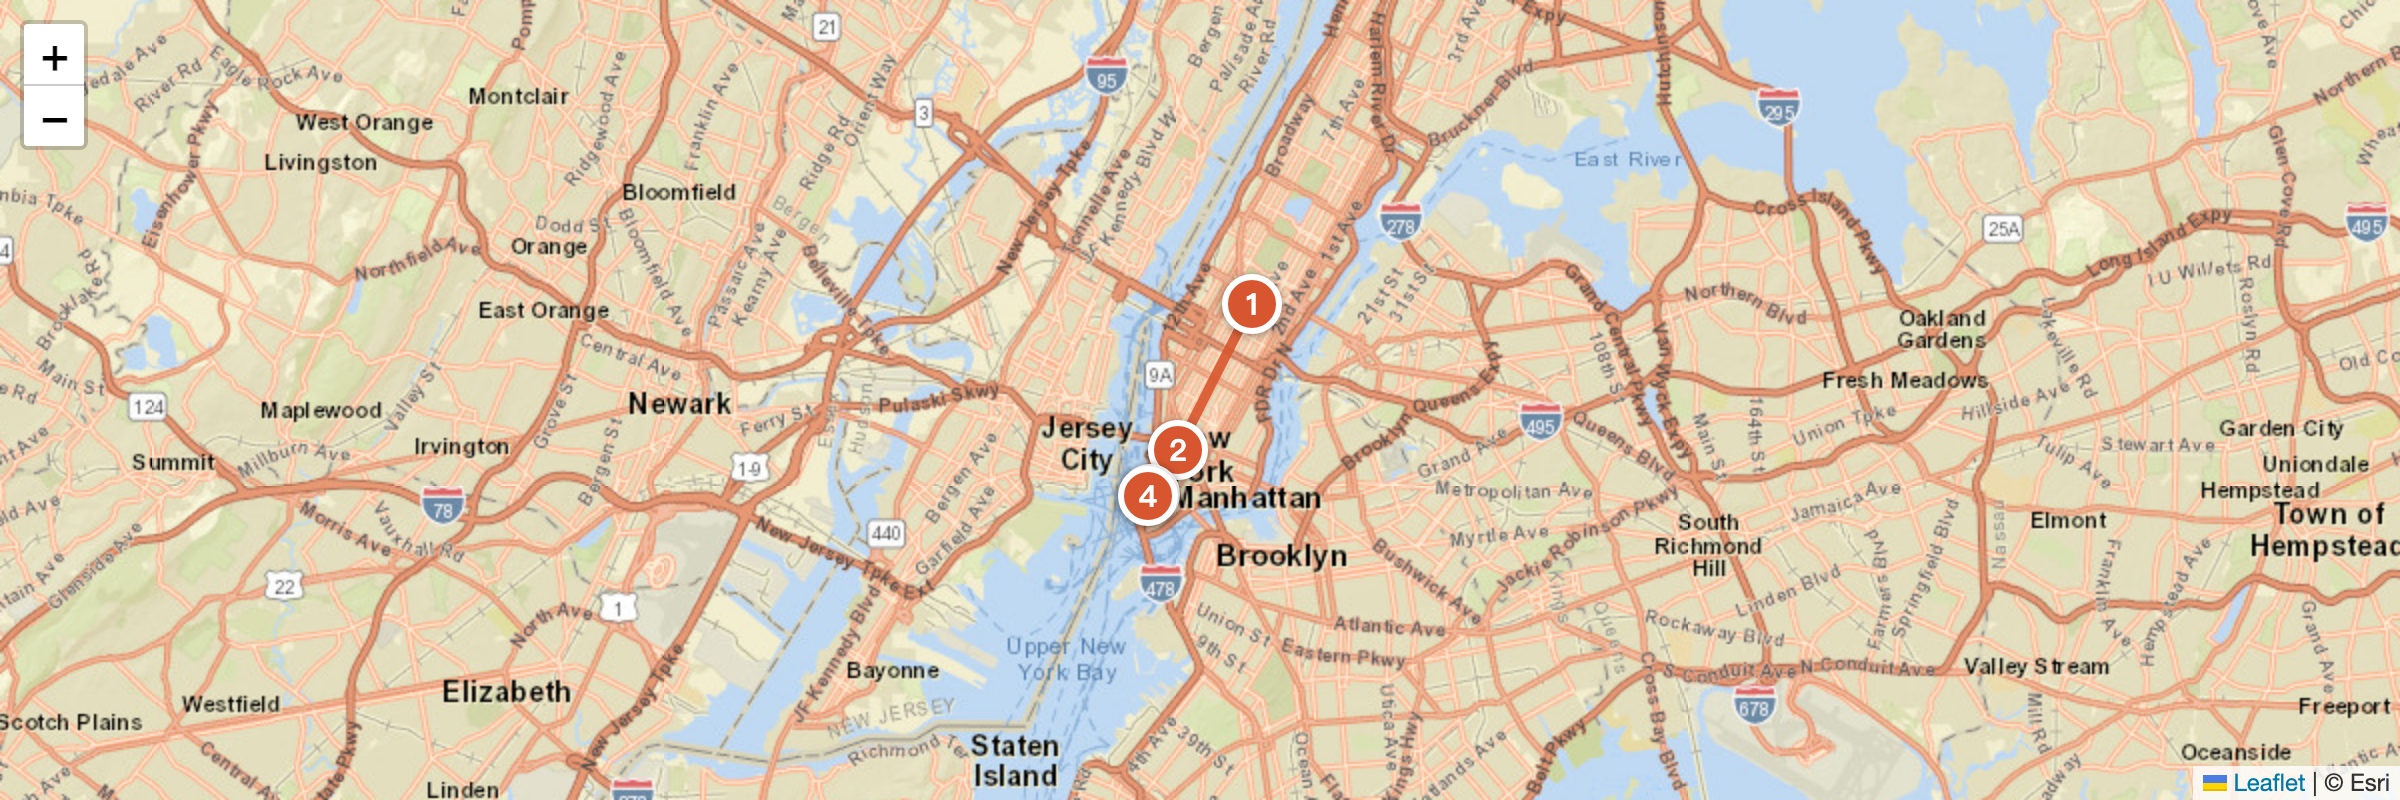
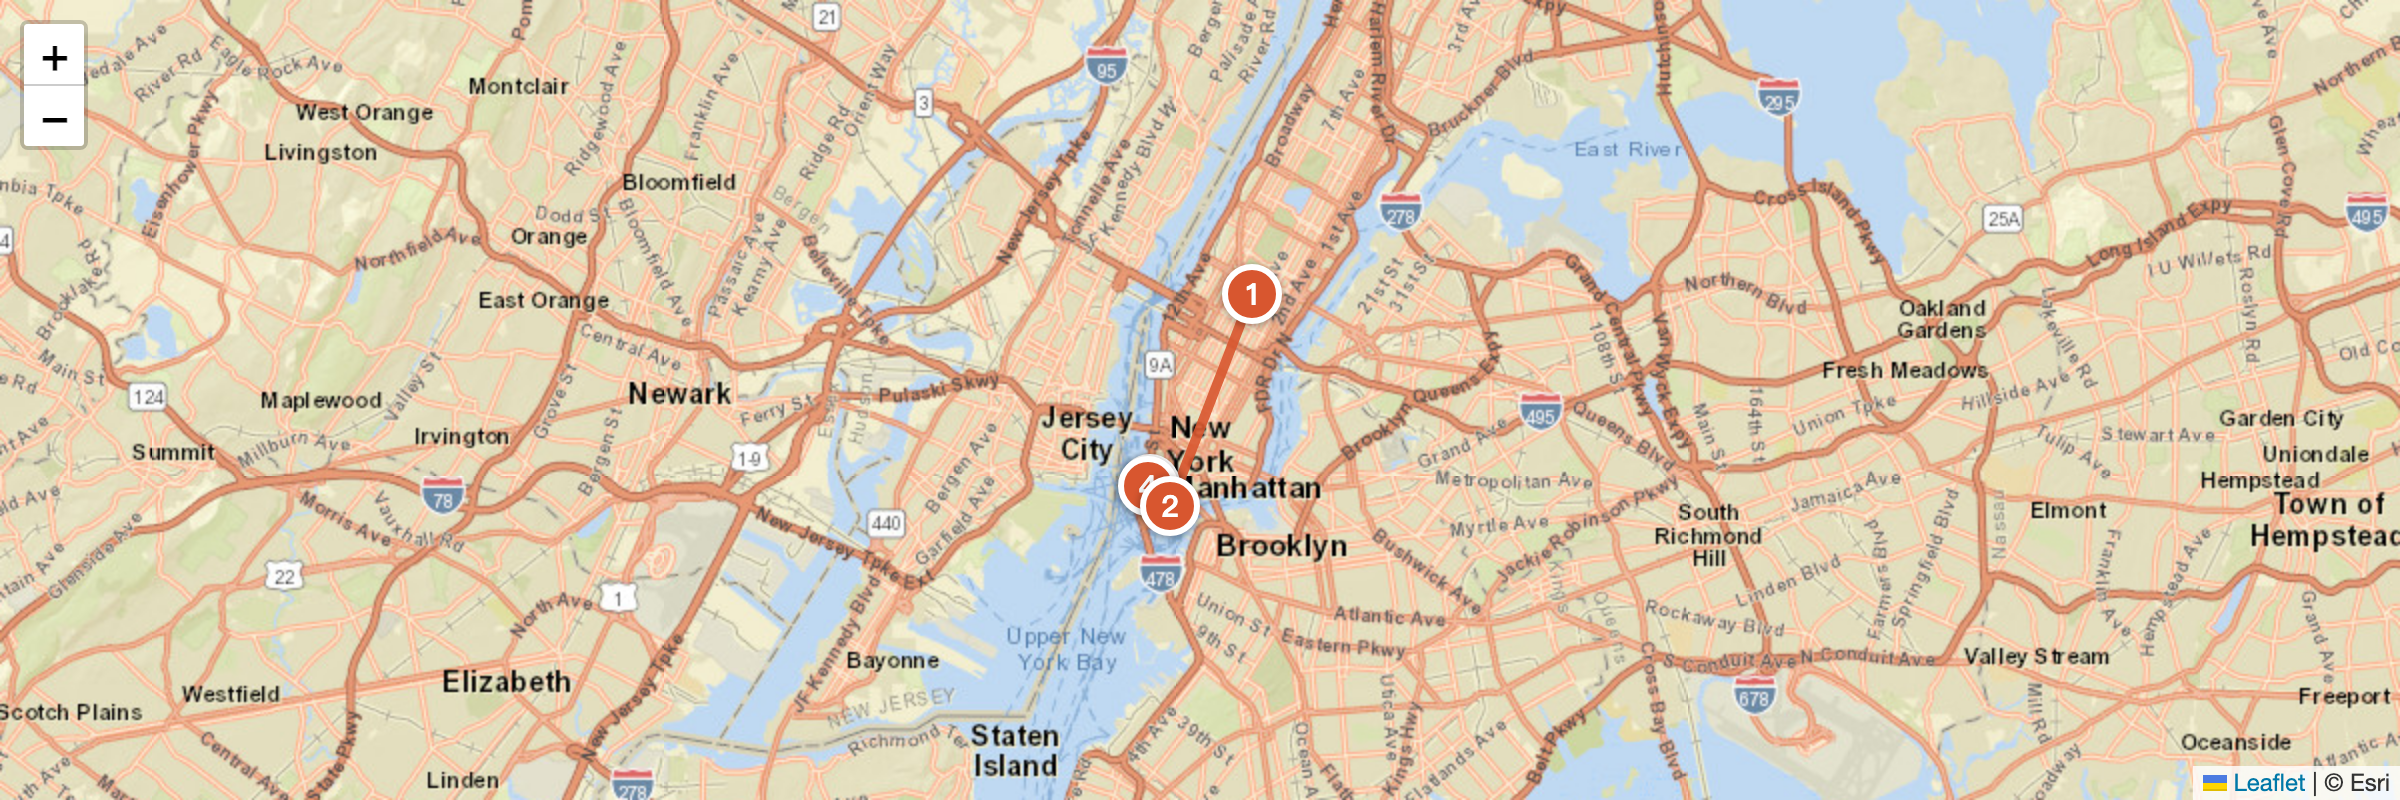
Day2/4/5 行程调整并同步地图
- Day2（风暴天）：改 SoHo 购物 + Katz's 三明治，傍晚视天气补时代广场/第五大道
- Day4：华尔街·金融区替换 SoHo 购物，标题与 Plan B 说明同步更新
- Day5：SoHo 补逛压缩至 1 小时，新增自由女神观景船（Battery Park）

diff --git a/index.html b/index.html
@@ -560,26 +560,26 @@ a.today-item.done .td-num{background:#9aa0a6}
       <div class="day" data-city="nyc">
         <div class="day-head" style="--c:var(--nyc)">
           <div class="day-num"><small>DAY</small><span class="n">2</span></div>
-          <div><div class="day-city">纽约 · 中城初探</div><div class="day-date">9月26日 · 周六</div></div>
-          <div class="spacer"></div><div class="day-tag">轻松收尾</div>
+          <div><div class="day-city">纽约 · 下城室内日</div><div class="day-date">9月26日 · 周六</div></div>
+          <div class="spacer"></div><div class="day-tag">风暴天调整</div>
         </div>
         <div class="route-map" id="amap-d2"><img class="rm-img" src="assets/maps/day02.png" alt="第2天路线地图" loading="lazy"></div><ul class="timeline">
           <li class="ev"><span class="ev-time">上午</span><span class="ev-dot"></span><div class="ev-body">
             <div class="ev-title">酒店休整<span class="en">Hotel Rest</span></div>
-            <div class="ev-note">倒时差，不安排重体力景点。</div>
+            <div class="ev-note">倒时差，避风暴。</div>
           </div></li>
-          <li class="ev"><span class="ev-time">14:00–15:30</span><span class="ev-dot"></span><div class="ev-body">
-            <div class="ev-title">时代广场<span class="en">Times Square</span></div>
-            <div class="ev-note">抵达后的轻松首站，感受曼哈顿的十字路口。</div>
+          <li class="ev"><span class="ev-time">13:00–15:30</span><span class="ev-dot"></span><div class="ev-body">
+            <div class="ev-title">SoHo 购物<span class="en">SoHo Shopping</span></div>
+            <div class="ev-note">以室内店铺为主、避雨，重点逛 Broadway、Prince St 一带。</div>
+          </div><a class="ev-nav" data-nav="SoHo, New York" title="地图导航"><svg width="16" height="16" viewBox="0 0 24 24" fill="none" stroke="currentColor" stroke-width="2" stroke-linecap="round" stroke-linejoin="round"><path d="M20 10c0 6-8 12-8 12s-8-6-8-12a8 8 0 0 1 16 0z"/><circle cx="12" cy="10" r="3"/></svg></a></li>
+          <li class="ev"><span class="ev-time">15:30–16:30</span><span class="ev-dot"></span><div class="ev-body">
+            <div class="ev-title">Katz's Delicatessen<span class="en">Classic Pastrami Sandwich</span></div>
+            <div class="ev-note">205 E Houston St，招牌 pastrami 黑麦三明治，步行约 10 分钟可达。</div>
+          </div><a class="ev-nav" data-nav="Katz's Delicatessen, New York" title="地图导航"><svg width="16" height="16" viewBox="0 0 24 24" fill="none" stroke="currentColor" stroke-width="2" stroke-linecap="round" stroke-linejoin="round"><path d="M20 10c0 6-8 12-8 12s-8-6-8-12a8 8 0 0 1 16 0z"/><circle cx="12" cy="10" r="3"/></svg></a></li>
+          <li class="ev"><span class="ev-time">傍晚·视天气</span><span class="ev-dot"></span><div class="ev-body">
+            <div class="ev-title">时代广场 + 第五大道·洛克菲勒<span class="en">Times Square · 5th Ave</span></div>
+            <div class="ev-note">雨小则前往，雨大改至 Day 4/5 晚上补；时代广场夜景更佳。</div>
           </div><a class="ev-nav" data-nav="Times Square, Manhattan, New York" title="地图导航"><svg width="16" height="16" viewBox="0 0 24 24" fill="none" stroke="currentColor" stroke-width="2" stroke-linecap="round" stroke-linejoin="round"><path d="M20 10c0 6-8 12-8 12s-8-6-8-12a8 8 0 0 1 16 0z"/><circle cx="12" cy="10" r="3"/></svg></a></li>
-          <li class="ev"><span class="ev-time">15:30–17:30</span><span class="ev-dot"></span><div class="ev-body">
-            <div class="ev-title">第五大道 + 洛克菲勒中心<span class="en">Fifth Avenue · Rockefeller Center</span></div>
-            <div class="ev-note">沿第五大道向北漫步，以逛街、看建筑为主；视体力在 Rockefeller Center 短暂停留。</div>
-          </div><a class="ev-nav" data-nav="Rockefeller Center, New York" title="地图导航"><svg width="16" height="16" viewBox="0 0 24 24" fill="none" stroke="currentColor" stroke-width="2" stroke-linecap="round" stroke-linejoin="round"><path d="M20 10c0 6-8 12-8 12s-8-6-8-12a8 8 0 0 1 16 0z"/><circle cx="12" cy="10" r="3"/></svg></a></li>
-          <li class="ev"><span class="ev-time">17:30–19:30</span><span class="ev-dot"></span><div class="ev-body">
-            <div class="ev-title">自由活动 + 晚餐<span class="en">Dinner &amp; Leisure</span></div>
-            <div class="ev-note">首日落地以休息为主，可在 Midtown 就近晚餐。</div>
-          </div></li>
         </ul>
       </div>
 
@@ -614,7 +614,7 @@ a.today-item.done .td-num{background:#9aa0a6}
       <div class="day" data-city="nyc">
         <div class="day-head" style="--c:var(--nyc)">
           <div class="day-num"><small>DAY</small><span class="n">4</span></div>
-          <div><div class="day-city">纽约 · MoMA + SoHo + 9/11</div><div class="day-date">9月28日 · 周一</div></div>
+          <div><div class="day-city">纽约 · MoMA + 华尔街 + 9/11</div><div class="day-date">9月28日 · 周一</div></div>
           <div class="spacer"></div><div class="day-tag">周一免费日</div>
         </div>
         <div class="route-map" id="amap-d4"><img class="rm-img" src="assets/maps/day04.png" alt="第4天路线地图" loading="lazy"></div><ul class="timeline">
@@ -624,8 +624,8 @@ a.today-item.done .td-num{background:#9aa0a6}
           </div><a class="ev-nav" data-nav="Museum of Modern Art, New York" title="地图导航"><svg width="16" height="16" viewBox="0 0 24 24" fill="none" stroke="currentColor" stroke-width="2" stroke-linecap="round" stroke-linejoin="round"><path d="M20 10c0 6-8 12-8 12s-8-6-8-12a8 8 0 0 1 16 0z"/><circle cx="12" cy="10" r="3"/></svg></a></li>
           <li class="ev"><span class="ev-time">13:30–14:15</span><span class="ev-dot"></span><div class="ev-body"><div class="ev-title">午餐<span class="en">Lunch</span></div><div class="ev-note">MoMA 附近解决，避免跨区用餐。</div></div></li>
           <li class="ev"><span class="ev-time">14:15–17:00</span><span class="ev-dot"></span><div class="ev-body">
-            <div class="ev-title">华尔街购物<span class="en">Wall Street Shopping</span></div>
-            <div class="ev-note">本日把主要购物时间留给华尔街；重点逛纽约证券交易所、三一教堂、铜牛一带。</div>
+            <div class="ev-title">华尔街 · 金融区<span class="en">Wall Street</span></div>
+            <div class="ev-note">金融区街景：纽约证券交易所、三一教堂、铜牛、联邦大厅国家纪念堂一带。</div>
           </div><a class="ev-nav" data-nav="Wall Street, New York" title="地图导航"><svg width="16" height="16" viewBox="0 0 24 24" fill="none" stroke="currentColor" stroke-width="2" stroke-linecap="round" stroke-linejoin="round"><path d="M20 10c0 6-8 12-8 12s-8-6-8-12a8 8 0 0 1 16 0z"/><circle cx="12" cy="10" r="3"/></svg></a></li>
           <li class="ev"><span class="ev-time">17:00–17:30</span><span class="ev-dot"></span><div class="ev-body">
             <div class="ev-title">世贸中心 + Oculus<span class="en">World Trade Center</span></div>
@@ -633,7 +633,7 @@ a.today-item.done .td-num{background:#9aa0a6}
           </div><a class="ev-nav" data-nav="The Oculus, World Trade Center, New York" title="地图导航"><svg width="16" height="16" viewBox="0 0 24 24" fill="none" stroke="currentColor" stroke-width="2" stroke-linecap="round" stroke-linejoin="round"><path d="M20 10c0 6-8 12-8 12s-8-6-8-12a8 8 0 0 1 16 0z"/><circle cx="12" cy="10" r="3"/></svg></a></li>
           <li class="ev"><span class="ev-time">17:30–19:00</span><span class="ev-dot"></span><div class="ev-body">
             <div class="ev-title">9/11 纪念博物馆<span class="en">9/11 Memorial &amp; Museum</span></div>
-            <div class="ev-note">【Plan A】当天美东 7:00 抢周一免费票，17:30–19:00 免费，限量先到先得、每人最多 4 张；【Plan B】抢不到则博物馆提前到约 15:45–17:15、SoHo 缩短，普通成人票 $36 需定时票。户外倒影池免费。</div>
+            <div class="ev-note">【Plan A】当天美东 7:00 抢周一免费票，17:30–19:00 免费，限量先到先得、每人最多 4 张；【Plan B】抢不到则博物馆提前到约 15:45–17:15、华尔街缩短，普通成人票 $36 需定时票。户外倒影池免费。</div>
           </div><a class="ev-nav" data-nav="9/11 Memorial and Museum, New York" title="地图导航"><svg width="16" height="16" viewBox="0 0 24 24" fill="none" stroke="currentColor" stroke-width="2" stroke-linecap="round" stroke-linejoin="round"><path d="M20 10c0 6-8 12-8 12s-8-6-8-12a8 8 0 0 1 16 0z"/><circle cx="12" cy="10" r="3"/></svg></a></li>
         </ul>
       </div>
@@ -652,11 +652,16 @@ a.today-item.done .td-num{background:#9aa0a6}
             <span class="tk-status">已购票</span>
           </div><a class="ev-nav" data-nav="American Museum of Natural History, New York" title="地图导航"><svg width="16" height="16" viewBox="0 0 24 24" fill="none" stroke="currentColor" stroke-width="2" stroke-linecap="round" stroke-linejoin="round"><path d="M20 10c0 6-8 12-8 12s-8-6-8-12a8 8 0 0 1 16 0z"/><circle cx="12" cy="10" r="3"/></svg></a></li>
           <li class="ev"><span class="ev-time">13:00–14:00</span><span class="ev-dot"></span><div class="ev-body"><div class="ev-title">午餐<span class="en">Lunch</span></div><div class="ev-note">博物馆附近或前往 SoHo 途中解决。</div></div></li>
-          <li class="ev"><span class="ev-time">14:00–18:00</span><span class="ev-dot"></span><div class="ev-body">
-            <div class="ev-title">SoHo 深度购物 + 街区漫逛<span class="en">SoHo</span></div>
-            <div class="ev-note">整整 4 小时留给 SoHo：慢逛、购物、咖啡和小店，不再安排 Wall Street / Trinity Church 等低优先级景点。</div>
+          <li class="ev"><span class="ev-time">14:00–15:00</span><span class="ev-dot"></span><div class="ev-body">
+            <div class="ev-title">SoHo 补逛<span class="en">SoHo</span></div>
+            <div class="ev-note">留 1 小时补 Day 2 没逛够的街，轻装快逛。</div>
           </div><a class="ev-nav" data-nav="SoHo, New York" title="地图导航"><svg width="16" height="16" viewBox="0 0 24 24" fill="none" stroke="currentColor" stroke-width="2" stroke-linecap="round" stroke-linejoin="round"><path d="M20 10c0 6-8 12-8 12s-8-6-8-12a8 8 0 0 1 16 0z"/><circle cx="12" cy="10" r="3"/></svg></a></li>
-          <li class="ev"><span class="ev-time">18:00–18:30</span><span class="ev-dot"></span><div class="ev-body"><div class="ev-title">前往布鲁克林大桥<span class="en">To Brooklyn Bridge</span></div><div class="ev-note">预留过桥前交通时间。</div></div></li>
+          <li class="ev"><span class="ev-time">15:00–15:45</span><span class="ev-dot"></span><div class="ev-body"><div class="ev-title">前往 Battery Park<span class="en">To Battery Park</span></div><div class="ev-note">向南前往下城码头，预留交通时间。</div></div></li>
+          <li class="ev"><span class="ev-time">15:45–17:15</span><span class="ev-dot"></span><div class="ev-body">
+            <div class="ev-title">自由女神观景船<span class="en">Statue of Liberty Ferry</span></div>
+            <div class="ev-note">Battery Park 出发，船上远观自由女神像 + 下城天际线，约 1–1.5 小时。</div>
+          </div><a class="ev-nav" data-nav="Battery Park, New York" title="地图导航"><svg width="16" height="16" viewBox="0 0 24 24" fill="none" stroke="currentColor" stroke-width="2" stroke-linecap="round" stroke-linejoin="round"><path d="M20 10c0 6-8 12-8 12s-8-6-8-12a8 8 0 0 1 16 0z"/><circle cx="12" cy="10" r="3"/></svg></a></li>
+          <li class="ev"><span class="ev-time">17:15–18:30</span><span class="ev-dot"></span><div class="ev-body"><div class="ev-title">自由活动 + 晚餐<span class="en">Dinner</span></div><div class="ev-note">从下城到布鲁克林大桥一带晚餐，为过桥看日落做准备。</div></div></li>
           <li class="ev"><span class="ev-time">18:30–20:00</span><span class="ev-dot"></span><div class="ev-body">
             <div class="ev-title">布鲁克林大桥 + DUMBO<span class="en">Brooklyn Bridge · DUMBO</span></div>
             <div class="ev-note">9/29 纽约日落约 18:41，18:30 左右上桥可争取黄昏/蓝调时刻。</div>
